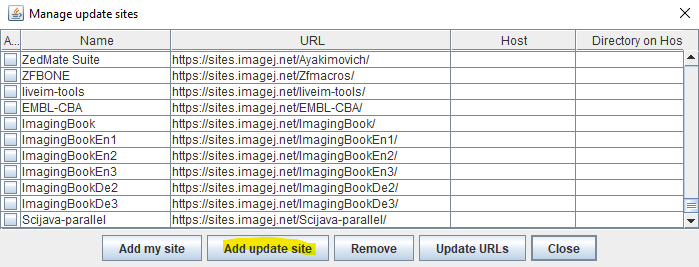
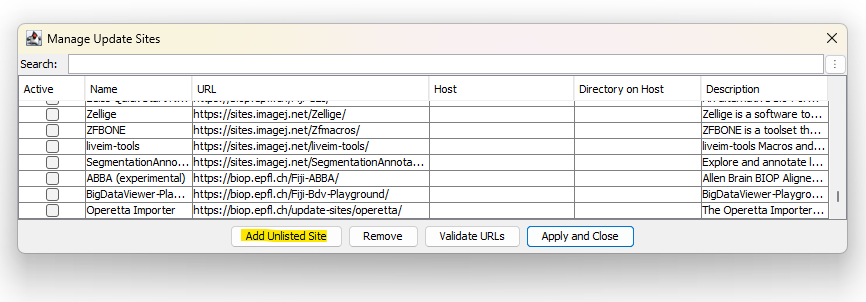
Clean update-site setup guide
Update pictures and instructions to reflect current UI state

diff --git a/_pages/update-sites/setup.md b/_pages/update-sites/setup.md
@@ -20,23 +20,23 @@ The easiest method to provide your macros, scripts and plugins to other users, l
 
 {% include notice icon="info" content='There are some minimal *Terms of Service* for hosted update sites. See the [Hosted Update Site Terms of Service](/update-sites/tos) for details.' %}
 
-***Please use [this thread on the Image.sc Forum](https://forum.image.sc/t/requests-for-creating-imagej-update-sites/40051/) to request a new update site.***
+***Please use [this thread on the Image.sc Forum](https://forum.image.sc/t/requests-for-creating-imagej-update-sites/40051/) to request new update sites and/or upload account.***
 
 You can also request:
 * The addition or removal of uploader permissions for a given user to a particular site;
 * A password reset for your upload account.
 
-To start using your update site, in ImageJ2, start the [Updater](/plugins/updater) with {% include bc path='Help | Update' %} and click on the {% include button label="Manage update sites" %} button:
+To start using your update site, in ImageJ2, start the [Updater](/plugins/updater) with {% include bc path='Help | Update' %} and click on the {% include button label="Manage Update Sites" %} button:
 
-<img src="/media/mamed-3.jpg" width="770"/>
+<img src="/media/update-sites/manage-sites.png" width="770"/>
 
 ### Specifying your site
 
-Click the {% include button label="Add update site" %} button. 
+Click the {% include button label="Add Unlisted Site" %} button. 
 
 <img src="/media/update-sites/add-update-site-1.png" width="770"/>
 
-Optionally, enter a nickname for your site in the **Name** column. In the **URL** column, enter your site's complete URL. Finally, in the **Host** column, enter `webdav:<your-uploader-username>`
+Using the URL and upload-username obtained above for [hosted](#creating-a-hosted-update-site) or [self-owned](#adding-an-update-site-on-your-own-server) sites, enter your site's complete URL in the **URL** column and `webdav:<upload-username>` in the **Host** column. Optionally, you can edit the **Name** column for a local nickname to identify your site.
 
 <img src="/media/update-sites/add-update-site-2.png" width="770"/>
 
@@ -98,7 +98,7 @@ First, start the [updater](/plugins/updater):
 
 ![](/media/update-sites/how-to-setup-a-plugin-distribution-site-1.jpg)
 
-Click on the {% include button label="Manage update sites" %} button and verify:
+Click on the {% include button label="Manage Update Sites" %} button and verify:
 
 -   Your update site is present and enabled
 -   The *Host* column of your update site contains your user name, in the form: `webdav:`<UploadUsername>
@@ -107,11 +107,11 @@ For example:
 
 <img src="/media/update-sites/personal-update-site-7.png" width="770"/>
 
-Once your login information is set you can *Close* the update site window.
+If this info is missing, see [Specifying your site](#specifying-your-site). Once your login information is set you can {% include button label="Apply and Close" %} the `Manage Update Sites` window.
 
 ### Prepare your files for upload
 
-Click on the {% include button label="Advanced mode" %} button and set the view options to see your plugins:
+Click on the {% include button label="Advanced Mode" %} button and set the view options to see your plugins:
 
 -   If your have never uploaded your plugins, select *View local-only files*
 
@@ -162,7 +162,7 @@ Sometimes you may have libraries or resources that are no longer necessary for y
 
 An ImageJ update site is essentially just a record of the changes/modifications from a base ImageJ distribution. We always populate an update site from our local installation, and for removal that's no different. The first step is just physically removing the unwanted file(s).
 
-In the {% include button label="Advanced mode" %} view of the updater, you can select any installed file and use either the {% include button label="Uninstall" %} button, or drop-down menu entry, to mark an item for removal. Then when you {% include button label="Apply Changes" %}, the selected item(s) will be deleted from your local filesystem.
+In the {% include button label="Advanced Mode" %} view of the updater, you can select any installed file and use either the {% include button label="Uninstall" %} button, or drop-down menu entry, to mark an item for removal. Then when you {% include button label="Apply Changes" %}, the selected item(s) will be deleted from your local filesystem.
 
 <img src="/media/update-sites/uninstall.png" width="770"/>
 
@@ -170,7 +170,7 @@ This is functionally equivalent to removing these files manually from your files
 
 ### Mark obsolete (update site)
 
-Once you have removed the undesired files, go back to the {% include button label="Advanced mode" %} view of the updater and find the removed file(s). Using the *View uninstalled files only* view option can help here - if your file *is not* showing up on this view then something is off: double-check the file is not present locally.
+Once you have removed the undesired files, go back to the {% include button label="Advanced Mode" %} view of the updater and find the removed file(s). Using the *View uninstalled files only* view option can help here - if your file *is not* showing up on this view then something is off: double-check the file is not present locally.
 
 When you find the uninstalled file(s) you can click their *Status/Action* and change it to **Mark obsolete (xxxxx)**. This option should always have an associated update site name; verify that it matches the update site you will be removing the file from.
 
